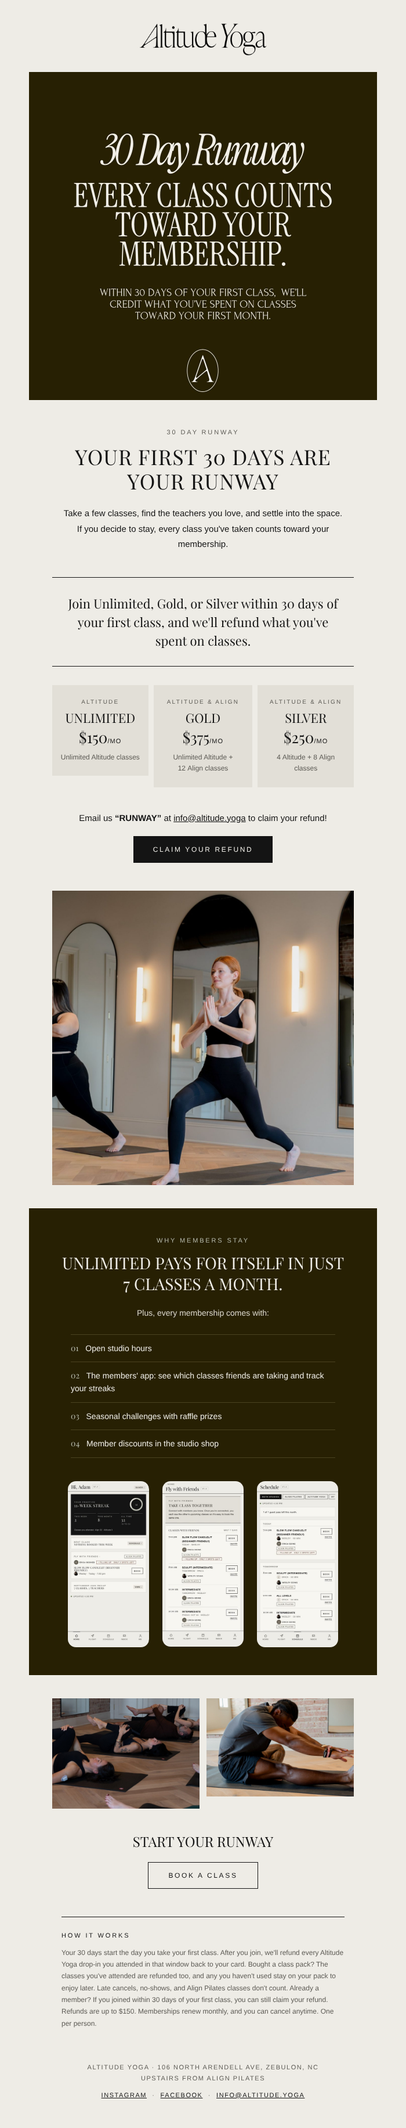
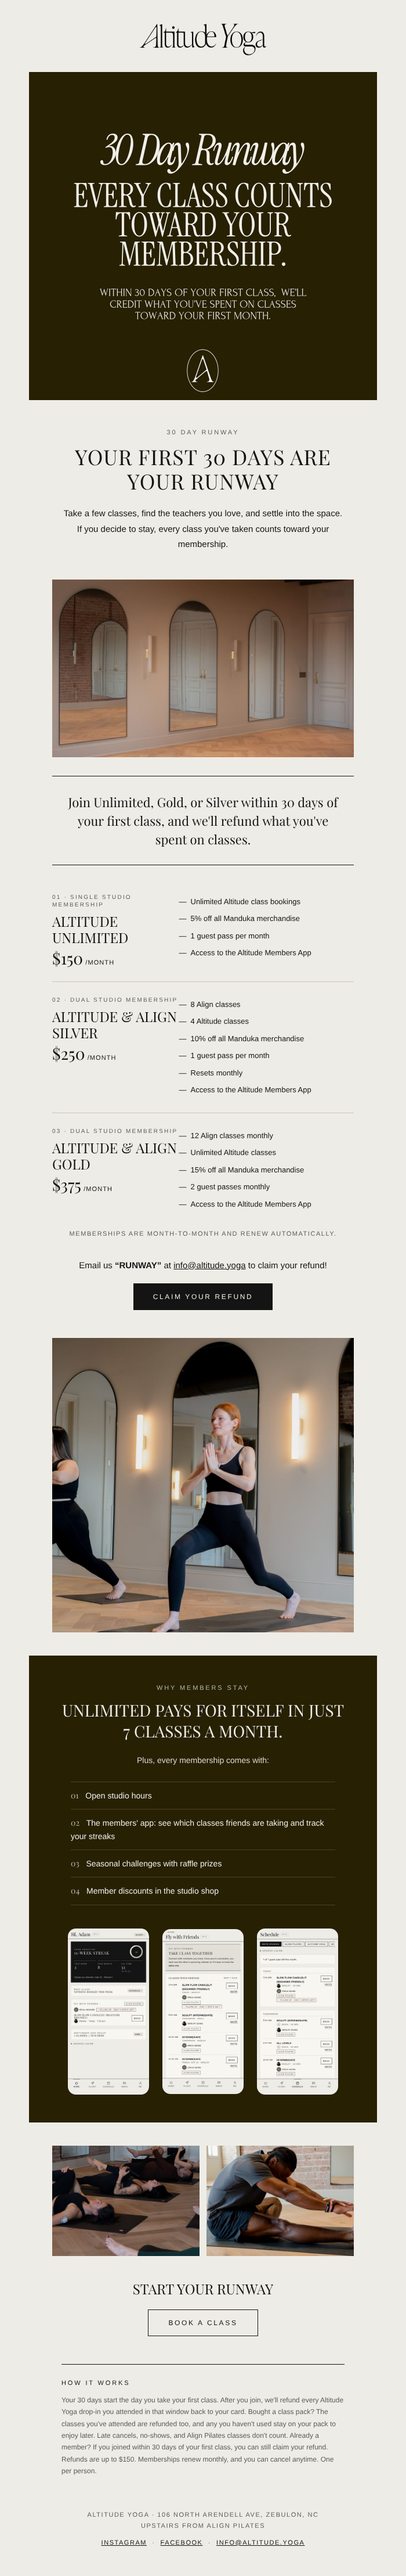
Runway email: studio photo up top, full membership tiers, Wix-ready image links
- Studio mirrors photo right after the intro
- Membership tiers use the full descriptions from the website's Pricing page
- Bottom two photos cropped to the same 4:3 size
- Images use hosted URLs so the HTML can be pasted straight into Wix
- Footer links wrap on phones

Claude-Session: https://claude.ai/code/session_01Ws3WPhBx9JMEVHsKTRrDRv

diff --git a/05-email/30-day-runway/email.html b/05-email/30-day-runway/email.html
@@ -42,14 +42,14 @@
   <!-- Wordmark -->
   <tr>
     <td align="center" style="padding:16px 40px 28px;">
-      <a href="https://get.mndbdy.ly/mBLZj3Mfx7b"><img src="images/altitude-wordmark.png" width="220" alt="Altitude Yoga" style="width:220px;"></a>
+      <a href="https://get.mndbdy.ly/mBLZj3Mfx7b"><img src="https://raw.githubusercontent.com/as200219/altitude-yoga-website/9b67b2a822cfa8e92fbb88a6129517195a2b6516/05-email/30-day-runway/images/altitude-wordmark.png" width="220" alt="Altitude Yoga" style="width:220px;"></a>
     </td>
   </tr>
 
   <!-- Promo graphic -->
   <tr>
     <td>
-      <img src="images/runway-graphic.jpg" width="600" alt="30 Day Runway. Every class counts toward your membership. Within 30 days of your first class, we'll credit what you've spent on classes toward your first month." style="width:100%; max-width:600px; background:#272003;">
+      <img src="https://raw.githubusercontent.com/as200219/altitude-yoga-website/9b67b2a822cfa8e92fbb88a6129517195a2b6516/05-email/30-day-runway/images/runway-graphic.jpg" width="600" alt="30 Day Runway. Every class counts toward your membership. Within 30 days of your first class, we'll credit what you've spent on classes toward your first month." style="width:100%; max-width:600px; background:#272003;">
     </td>
   </tr>
 
@@ -59,6 +59,13 @@
       <p style="margin:0 0 14px; font:500 11px/1.3 Helvetica, Arial, sans-serif; letter-spacing:.26em; text-transform:uppercase; color:#5d5b55;">30 Day Runway</p>
       <h1 class="h1 serif" style="margin:0 0 22px; font-family:'Playfair Display', Georgia, 'Times New Roman', serif; font-weight:400; font-size:36px; line-height:42px; letter-spacing:.03em; text-transform:uppercase; color:#141414;">Your first 30&nbsp;days are your&nbsp;runway</h1>
       <p style="margin:0; font:400 15px/1.75 Helvetica, Arial, sans-serif; color:#141414;">Take a few classes, find the teachers you love, and settle into the space. If you decide to stay, every class you've taken counts toward your membership.</p>
+    </td>
+  </tr>
+
+  <!-- Studio photo -->
+  <tr>
+    <td class="px" style="padding:36px 40px 0;">
+      <img src="https://raw.githubusercontent.com/as200219/altitude-yoga-website/9b67b2a822cfa8e92fbb88a6129517195a2b6516/05-email/30-day-runway/images/studio-mirrors.jpg" width="520" alt="Arched mirrors and herringbone floors in the Altitude studio" class="fluid" style="width:100%; max-width:520px;">
     </td>
   </tr>
 
@@ -75,43 +82,60 @@
     </td>
   </tr>
 
-  <!-- Tiers -->
+  <!-- Tiers (from the Pricing page on altitude.yoga) -->
   <tr>
-    <td class="px" style="padding:24px 40px 8px;">
+    <td class="px" style="padding:16px 40px 0;">
       <table role="presentation" width="100%" cellpadding="0" cellspacing="0" border="0">
         <tr>
-          <td class="stack stack-pad" width="33%" valign="top" style="padding:0 6px 0 0;">
-            <table role="presentation" width="100%" cellpadding="0" cellspacing="0" border="0" style="background:#e2dfd7;">
-              <tr><td align="center" style="padding:22px 12px;">
-                <p style="margin:0 0 8px; font:500 10px/1.3 Helvetica, Arial, sans-serif; letter-spacing:.22em; text-transform:uppercase; color:#5d5b55;">Altitude</p>
-                <p class="serif" style="margin:0 0 6px; font-family:'Playfair Display', Georgia, serif; font-size:22px; line-height:26px; text-transform:uppercase; color:#141414;">Unlimited</p>
-                <p class="serif" style="margin:0 0 10px; font-family:'Playfair Display', Georgia, serif; font-size:26px; line-height:30px; color:#141414;">$150<span style="font:400 11px Helvetica, Arial, sans-serif; letter-spacing:.1em;">/MO</span></p>
-                <p style="margin:0; font:400 12px/1.6 Helvetica, Arial, sans-serif; color:#5d5b55;">Unlimited Altitude classes</p>
-              </td></tr>
+          <td style="padding:24px 0; border-bottom:1px solid #c9c5bb;">
+            <table role="presentation" width="100%" cellpadding="0" cellspacing="0" border="0">
+              <tr>
+                <td class="stack stack-pad" width="42%" valign="top">
+                  <p style="margin:0 0 8px; font:500 10px/1.3 Helvetica, Arial, sans-serif; letter-spacing:.22em; text-transform:uppercase; color:#5d5b55;">01 &middot; Single studio membership</p>
+                  <p class="serif" style="margin:0 0 6px; font-family:'Playfair Display', Georgia, serif; font-size:24px; line-height:28px; text-transform:uppercase; color:#141414;">Altitude Unlimited</p>
+                  <p class="serif" style="margin:0; font-family:'Playfair Display', Georgia, serif; font-size:28px; line-height:32px; color:#141414;">$150<span style="font:400 11px Helvetica, Arial, sans-serif; letter-spacing:.1em;">&nbsp;/MONTH</span></p>
+                </td>
+                <td class="stack" width="58%" valign="top">
+                  <table role="presentation" width="100%" cellpadding="0" cellspacing="0" border="0"><tr><td style="padding:5px 0; font:400 13px/1.5 Helvetica, Arial, sans-serif; color:#141414;">&mdash;&nbsp;&nbsp;Unlimited Altitude class bookings</td></tr><tr><td style="padding:5px 0; font:400 13px/1.5 Helvetica, Arial, sans-serif; color:#141414;">&mdash;&nbsp;&nbsp;5% off all Manduka merchandise</td></tr><tr><td style="padding:5px 0; font:400 13px/1.5 Helvetica, Arial, sans-serif; color:#141414;">&mdash;&nbsp;&nbsp;1 guest pass per month</td></tr><tr><td style="padding:5px 0; font:400 13px/1.5 Helvetica, Arial, sans-serif; color:#141414;">&mdash;&nbsp;&nbsp;Access to the Altitude Members App</td></tr></table>
+                </td>
+              </tr>
             </table>
           </td>
-          <td class="stack stack-pad" width="34%" valign="top" style="padding:0 3px;">
-            <table role="presentation" width="100%" cellpadding="0" cellspacing="0" border="0" style="background:#e2dfd7;">
-              <tr><td align="center" style="padding:22px 12px;">
-                <p style="margin:0 0 8px; font:500 10px/1.3 Helvetica, Arial, sans-serif; letter-spacing:.22em; text-transform:uppercase; color:#5d5b55;">Altitude &amp; Align</p>
-                <p class="serif" style="margin:0 0 6px; font-family:'Playfair Display', Georgia, serif; font-size:22px; line-height:26px; text-transform:uppercase; color:#141414;">Gold</p>
-                <p class="serif" style="margin:0 0 10px; font-family:'Playfair Display', Georgia, serif; font-size:26px; line-height:30px; color:#141414;">$375<span style="font:400 11px Helvetica, Arial, sans-serif; letter-spacing:.1em;">/MO</span></p>
-                <p style="margin:0; font:400 12px/1.6 Helvetica, Arial, sans-serif; color:#5d5b55;">Unlimited Altitude + 12&nbsp;Align classes</p>
-              </td></tr>
+        </tr>
+        <tr>
+          <td style="padding:24px 0; border-bottom:1px solid #c9c5bb;">
+            <table role="presentation" width="100%" cellpadding="0" cellspacing="0" border="0">
+              <tr>
+                <td class="stack stack-pad" width="42%" valign="top">
+                  <p style="margin:0 0 8px; font:500 10px/1.3 Helvetica, Arial, sans-serif; letter-spacing:.22em; text-transform:uppercase; color:#5d5b55;">02 &middot; Dual studio membership</p>
+                  <p class="serif" style="margin:0 0 6px; font-family:'Playfair Display', Georgia, serif; font-size:24px; line-height:28px; text-transform:uppercase; color:#141414;">Altitude &amp; Align Silver</p>
+                  <p class="serif" style="margin:0; font-family:'Playfair Display', Georgia, serif; font-size:28px; line-height:32px; color:#141414;">$250<span style="font:400 11px Helvetica, Arial, sans-serif; letter-spacing:.1em;">&nbsp;/MONTH</span></p>
+                </td>
+                <td class="stack" width="58%" valign="top">
+                  <table role="presentation" width="100%" cellpadding="0" cellspacing="0" border="0"><tr><td style="padding:5px 0; font:400 13px/1.5 Helvetica, Arial, sans-serif; color:#141414;">&mdash;&nbsp;&nbsp;8 Align classes</td></tr><tr><td style="padding:5px 0; font:400 13px/1.5 Helvetica, Arial, sans-serif; color:#141414;">&mdash;&nbsp;&nbsp;4 Altitude classes</td></tr><tr><td style="padding:5px 0; font:400 13px/1.5 Helvetica, Arial, sans-serif; color:#141414;">&mdash;&nbsp;&nbsp;10% off all Manduka merchandise</td></tr><tr><td style="padding:5px 0; font:400 13px/1.5 Helvetica, Arial, sans-serif; color:#141414;">&mdash;&nbsp;&nbsp;1 guest pass per month</td></tr><tr><td style="padding:5px 0; font:400 13px/1.5 Helvetica, Arial, sans-serif; color:#141414;">&mdash;&nbsp;&nbsp;Resets monthly</td></tr><tr><td style="padding:5px 0; font:400 13px/1.5 Helvetica, Arial, sans-serif; color:#141414;">&mdash;&nbsp;&nbsp;Access to the Altitude Members App</td></tr></table>
+                </td>
+              </tr>
             </table>
           </td>
-          <td class="stack stack-pad" width="33%" valign="top" style="padding:0 0 0 6px;">
-            <table role="presentation" width="100%" cellpadding="0" cellspacing="0" border="0" style="background:#e2dfd7;">
-              <tr><td align="center" style="padding:22px 12px;">
-                <p style="margin:0 0 8px; font:500 10px/1.3 Helvetica, Arial, sans-serif; letter-spacing:.22em; text-transform:uppercase; color:#5d5b55;">Altitude &amp; Align</p>
-                <p class="serif" style="margin:0 0 6px; font-family:'Playfair Display', Georgia, serif; font-size:22px; line-height:26px; text-transform:uppercase; color:#141414;">Silver</p>
-                <p class="serif" style="margin:0 0 10px; font-family:'Playfair Display', Georgia, serif; font-size:26px; line-height:30px; color:#141414;">$250<span style="font:400 11px Helvetica, Arial, sans-serif; letter-spacing:.1em;">/MO</span></p>
-                <p style="margin:0; font:400 12px/1.6 Helvetica, Arial, sans-serif; color:#5d5b55;">4 Altitude + 8&nbsp;Align classes</p>
-              </td></tr>
+        </tr>
+        <tr>
+          <td style="padding:24px 0;">
+            <table role="presentation" width="100%" cellpadding="0" cellspacing="0" border="0">
+              <tr>
+                <td class="stack stack-pad" width="42%" valign="top">
+                  <p style="margin:0 0 8px; font:500 10px/1.3 Helvetica, Arial, sans-serif; letter-spacing:.22em; text-transform:uppercase; color:#5d5b55;">03 &middot; Dual studio membership</p>
+                  <p class="serif" style="margin:0 0 6px; font-family:'Playfair Display', Georgia, serif; font-size:24px; line-height:28px; text-transform:uppercase; color:#141414;">Altitude &amp; Align Gold</p>
+                  <p class="serif" style="margin:0; font-family:'Playfair Display', Georgia, serif; font-size:28px; line-height:32px; color:#141414;">$375<span style="font:400 11px Helvetica, Arial, sans-serif; letter-spacing:.1em;">&nbsp;/MONTH</span></p>
+                </td>
+                <td class="stack" width="58%" valign="top">
+                  <table role="presentation" width="100%" cellpadding="0" cellspacing="0" border="0"><tr><td style="padding:5px 0; font:400 13px/1.5 Helvetica, Arial, sans-serif; color:#141414;">&mdash;&nbsp;&nbsp;12 Align classes monthly</td></tr><tr><td style="padding:5px 0; font:400 13px/1.5 Helvetica, Arial, sans-serif; color:#141414;">&mdash;&nbsp;&nbsp;Unlimited Altitude classes</td></tr><tr><td style="padding:5px 0; font:400 13px/1.5 Helvetica, Arial, sans-serif; color:#141414;">&mdash;&nbsp;&nbsp;15% off all Manduka merchandise</td></tr><tr><td style="padding:5px 0; font:400 13px/1.5 Helvetica, Arial, sans-serif; color:#141414;">&mdash;&nbsp;&nbsp;2 guest passes monthly</td></tr><tr><td style="padding:5px 0; font:400 13px/1.5 Helvetica, Arial, sans-serif; color:#141414;">&mdash;&nbsp;&nbsp;Access to the Altitude Members App</td></tr></table>
+                </td>
+              </tr>
             </table>
           </td>
         </tr>
       </table>
+      <p style="margin:4px 0 0; text-align:center; font:400 11px/1.6 Helvetica, Arial, sans-serif; letter-spacing:.14em; text-transform:uppercase; color:#5d5b55;">Memberships are month-to-month and renew automatically.</p>
     </td>
   </tr>
 
@@ -132,7 +156,7 @@
   <!-- Photo -->
   <tr>
     <td class="px" style="padding:40px 40px 0;">
-      <img src="images/warrior.jpg" width="520" alt="A student in a lunge with hands at heart in the Altitude studio" style="width:100%; max-width:520px;">
+      <img src="https://raw.githubusercontent.com/as200219/altitude-yoga-website/9b67b2a822cfa8e92fbb88a6129517195a2b6516/05-email/30-day-runway/images/warrior.jpg" width="520" alt="A student in a lunge with hands at heart in the Altitude studio" style="width:100%; max-width:520px;">
     </td>
   </tr>
 
@@ -162,9 +186,9 @@
           <td class="px" align="center" style="padding:32px 56px 48px;">
             <table role="presentation" cellpadding="0" cellspacing="0" border="0" width="100%">
               <tr>
-                <td class="app-cell" width="33%" align="center" style="padding:0 8px;"><img src="images/app-home.jpg" width="140" alt="Altitude Members App home screen" style="width:100%; max-width:140px; border-radius:14px;"></td>
-                <td class="app-cell" width="34%" align="center" style="padding:0 8px;"><img src="images/app-friends.jpg" width="140" alt="Members App showing friends' classes" style="width:100%; max-width:140px; border-radius:14px;"></td>
-                <td class="app-cell" width="33%" align="center" style="padding:0 8px;"><img src="images/app-schedule.jpg" width="140" alt="Members App class schedule" style="width:100%; max-width:140px; border-radius:14px;"></td>
+                <td class="app-cell" width="33%" align="center" style="padding:0 8px;"><img src="https://raw.githubusercontent.com/as200219/altitude-yoga-website/9b67b2a822cfa8e92fbb88a6129517195a2b6516/05-email/30-day-runway/images/app-home.jpg" width="140" alt="Altitude Members App home screen" style="width:100%; max-width:140px; border-radius:14px;"></td>
+                <td class="app-cell" width="34%" align="center" style="padding:0 8px;"><img src="https://raw.githubusercontent.com/as200219/altitude-yoga-website/9b67b2a822cfa8e92fbb88a6129517195a2b6516/05-email/30-day-runway/images/app-friends.jpg" width="140" alt="Members App showing friends' classes" style="width:100%; max-width:140px; border-radius:14px;"></td>
+                <td class="app-cell" width="33%" align="center" style="padding:0 8px;"><img src="https://raw.githubusercontent.com/as200219/altitude-yoga-website/9b67b2a822cfa8e92fbb88a6129517195a2b6516/05-email/30-day-runway/images/app-schedule.jpg" width="140" alt="Members App class schedule" style="width:100%; max-width:140px; border-radius:14px;"></td>
               </tr>
             </table>
           </td>
@@ -178,8 +202,8 @@
     <td class="px" style="padding:40px 40px 0;">
       <table role="presentation" width="100%" cellpadding="0" cellspacing="0" border="0">
         <tr>
-          <td class="stack stack-pad" width="50%" valign="top" style="padding:0 6px 0 0;"><img src="images/class-stretch.jpg" width="254" alt="A class stretching together on the mats" class="fluid" style="width:100%; max-width:254px;"></td>
-          <td class="stack" width="50%" valign="top" style="padding:0 0 0 6px;"><img src="images/forward-fold.jpg" width="254" alt="A student folding forward on his mat" class="fluid" style="width:100%; max-width:254px;"></td>
+          <td class="stack stack-pad" width="50%" valign="top" style="padding:0 6px 0 0;"><img src="https://raw.githubusercontent.com/as200219/altitude-yoga-website/9b67b2a822cfa8e92fbb88a6129517195a2b6516/05-email/30-day-runway/images/class-stretch.jpg" width="254" height="191" alt="A class stretching together on the mats" class="fluid" style="width:100%; max-width:254px; height:auto;"></td>
+          <td class="stack" width="50%" valign="top" style="padding:0 0 0 6px;"><img src="https://raw.githubusercontent.com/as200219/altitude-yoga-website/9b67b2a822cfa8e92fbb88a6129517195a2b6516/05-email/30-day-runway/images/forward-fold.jpg" width="254" height="191" alt="A student folding forward on his mat" class="fluid" style="width:100%; max-width:254px; height:auto;"></td>
         </tr>
       </table>
     </td>
@@ -216,7 +240,7 @@
     <td class="px" align="center" style="padding:48px 40px 24px;">
       <p style="margin:0 0 10px; font:400 11px/1.7 Helvetica, Arial, sans-serif; letter-spacing:.14em; text-transform:uppercase; color:#5d5b55;">Altitude Yoga · 106 North Arendell Ave, Zebulon, NC<br>Upstairs from Align Pilates</p>
       <p style="margin:0; font:400 11px/1.7 Helvetica, Arial, sans-serif; letter-spacing:.14em; text-transform:uppercase; color:#5d5b55;">
-        <a href="https://www.instagram.com/altitude_yoga_nc/" style="color:#141414;">Instagram</a>&nbsp;&nbsp;·&nbsp;&nbsp;<a href="https://www.facebook.com/share/1F29ZhQ2dJ/" style="color:#141414;">Facebook</a>&nbsp;&nbsp;·&nbsp;&nbsp;<a href="mailto:info@altitude.yoga" style="color:#141414;">info@altitude.yoga</a>
+        <a href="https://www.instagram.com/altitude_yoga_nc/" style="color:#141414;">Instagram</a> &nbsp;·&nbsp; <a href="https://www.facebook.com/share/1F29ZhQ2dJ/" style="color:#141414;">Facebook</a> &nbsp;·&nbsp; <a href="mailto:info@altitude.yoga" style="color:#141414;">info@altitude.yoga</a>
       </p>
     </td>
   </tr>

diff --git a/05-email/30-day-runway/README.md b/05-email/30-day-runway/README.md
@@ -1,27 +1,21 @@
 # 30 Day Runway email
 
 - `email.html`: the finished email (600px, table-based, inline styles). Open it in a browser to preview.
+  The membership tiers match the Pricing page on altitude.yoga.
 - `images/`: every image the email uses, sized for email. `runway-graphic.jpg` is the promo graphic
   with the "DM us RUNWAY" lines cropped off.
 - `preview.png`: full-length screenshot.
 
 ## Sending from Wix Email Marketing
 
-Wix's email editor is drag-and-drop and does not accept pasted HTML, so rebuild it there top to bottom
-using this file as the design and copy source:
+Paste the full contents of `email.html` into Wix's custom HTML option. The images are already
+hosted online (on GitHub, linked to a fixed version of this repo), so they show up after pasting
+with nothing to upload.
 
-1. Logo: `images/altitude-wordmark.png`
-2. Image: `images/runway-graphic.jpg`
-3. Text: eyebrow "30 Day Runway", heading "Your first 30 days are your runway", intro paragraph
-4. Text between two divider lines: the "Join Unlimited, Gold, or Silver..." offer
-5. Three columns: Unlimited $150, Gold $375, Silver $250
-6. Text + button "Claim your refund", linked to `mailto:info@altitude.yoga?subject=RUNWAY`
-7. Image: `images/warrior.jpg`
-8. Dark section (background #272003): "Unlimited pays for itself in just 7 classes a month" + the four perks + three app screenshots
-9. Two images: `images/class-stretch.jpg`, `images/forward-fold.jpg`
-10. "Start your runway" + button "Book a class" linked to https://get.mndbdy.ly/mBLZj3Mfx7b
-11. "How it works" fine print
-12. Footer: address, Instagram, Facebook, info@altitude.yoga (Wix adds the unsubscribe link)
+To swap a photo, upload the new one to Wix's media library and replace that image's `src="..."` address in the HTML.
+
+Buttons: "Claim your refund" opens an email to info@altitude.yoga with the subject RUNWAY;
+"Book a class" goes to https://get.mndbdy.ly/mBLZj3Mfx7b.
 
 Colors: paper #EEECE6, stone #E2DFD7, ink #141414, muted #5D5B55, runway olive #272003, sage #B7BAAD.
 Fonts: Playfair Display for headings, Helvetica for body, all caps for headings and labels.
